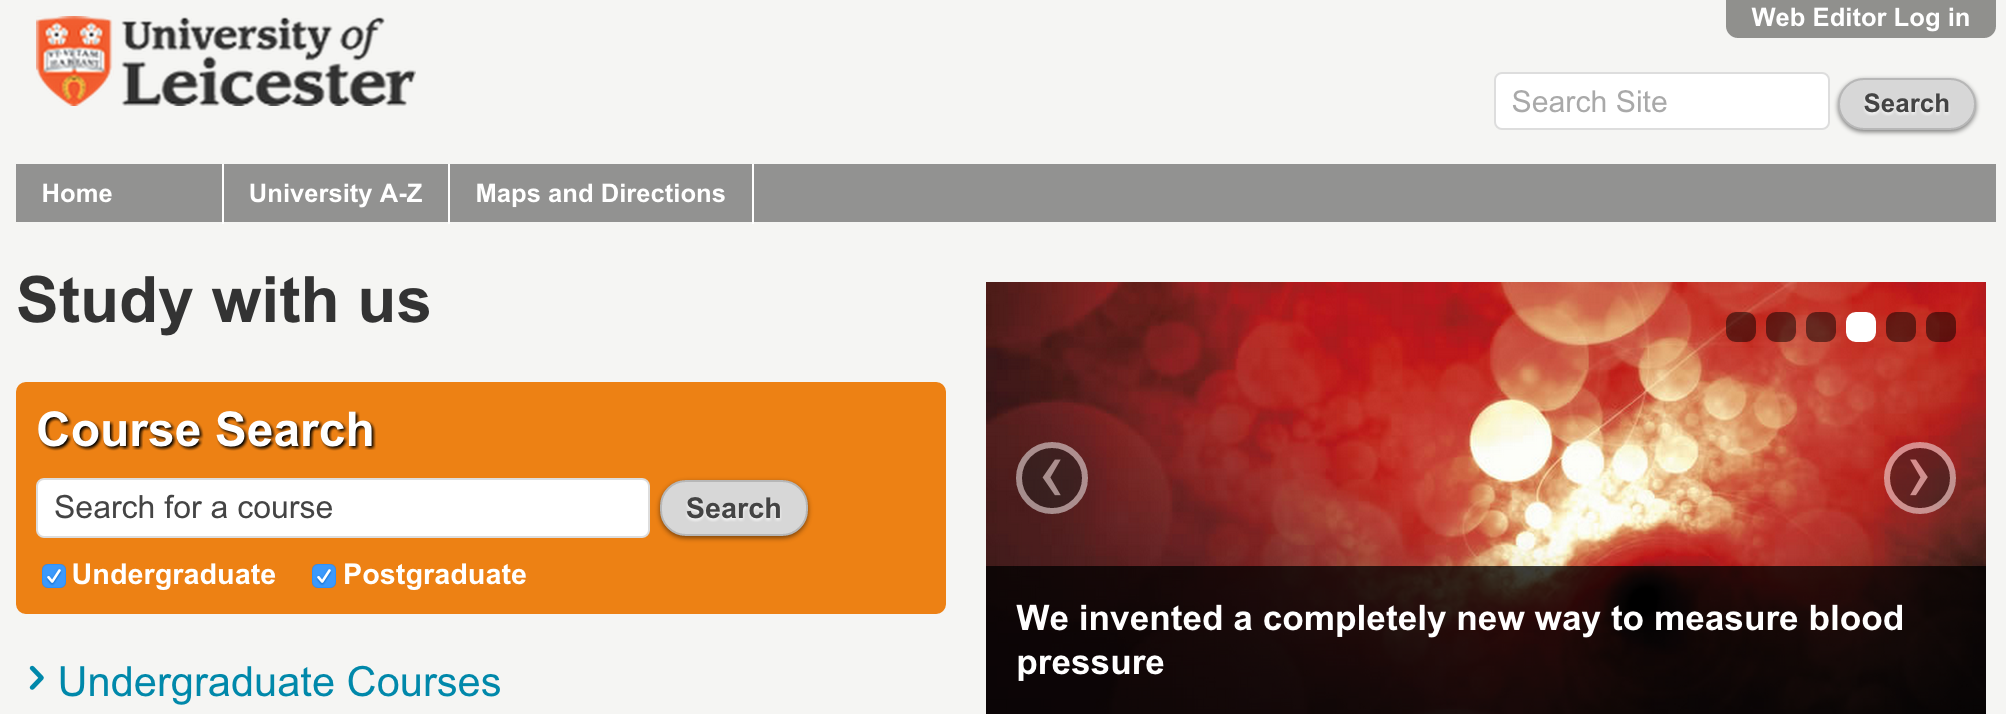
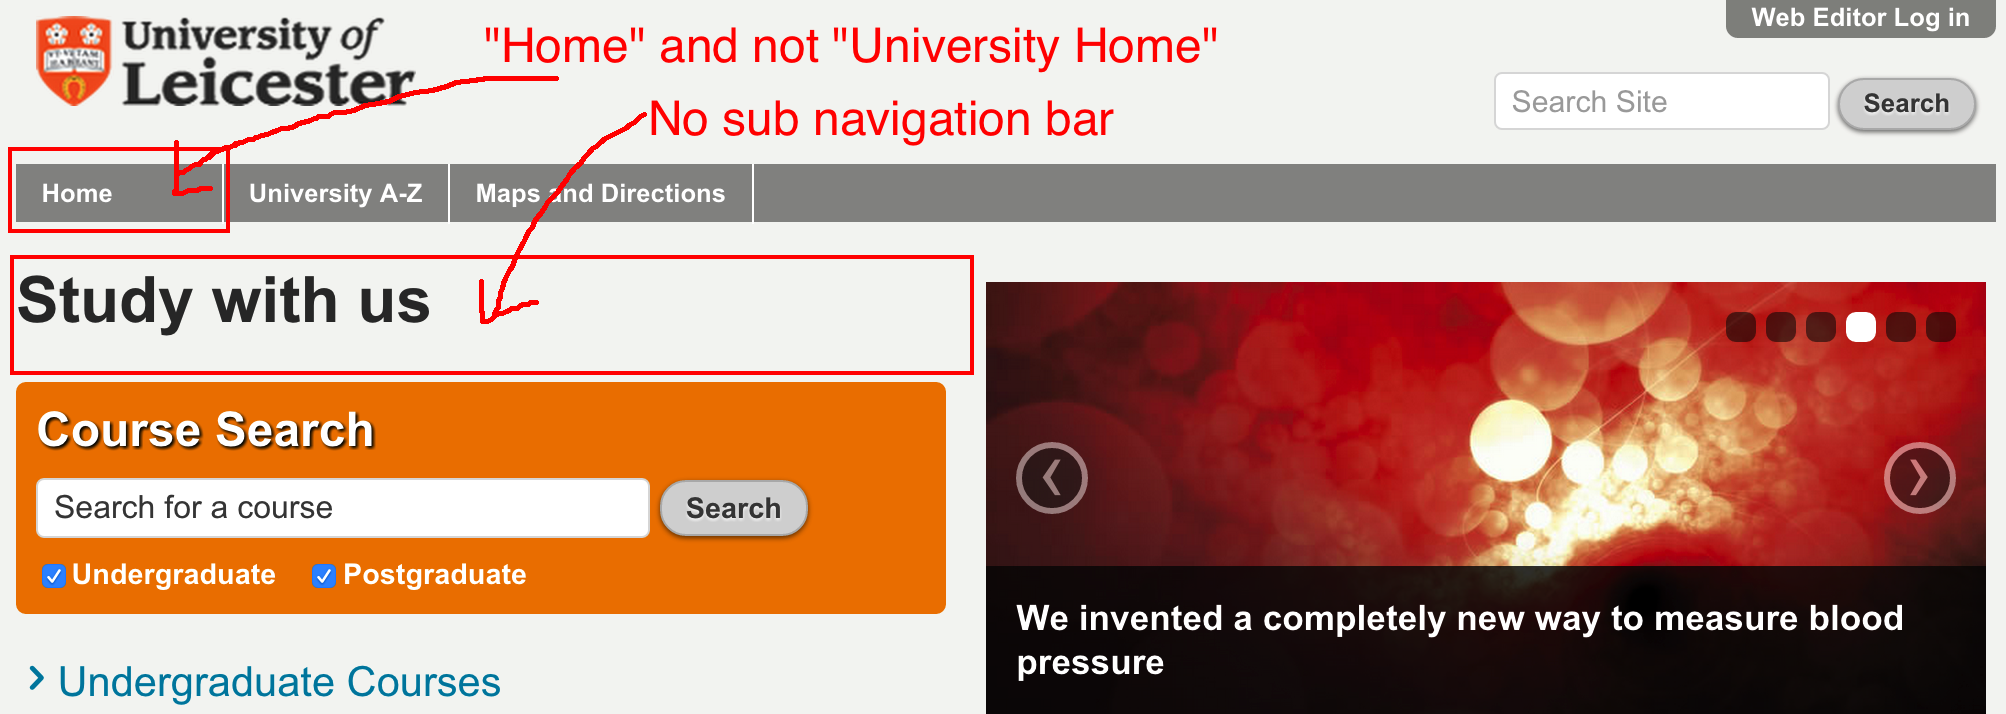
finished visibility page
finished the visibility heuristic page

diff --git a/usabilityeval/visibility.html b/usabilityeval/visibility.html
@@ -30,12 +30,14 @@
 			<div id="main">
 				<h3 id="title">Visibility of system status</h3>
 				<h2 id="description">The system should always keep users informed about what is going on, through appropriate feedback within reasonable time.</h2> 
-				<a href="img/home.png" data-lightbox="home" data-title="Home Page"><img src="img/home.png" alt="home page" /></a>
+				<a href="img/home.png" data-lightbox="home" data-title="Home Page"><img src="img/home.png" alt="home page" />Home Page</a>
 				<p>There is generally a consistent layout once you enter the site after the home page, which seems a little more like a landing page.</p>
 				<p>For the most part, the top navigation bar is consistent, but the subnavigation bar below is either not present or consistent. This is confusing for the user.</p>
 				<a href="img/no-subnav.png" data-lightbox="subnav" data-title="No subnavigation bar shown on page"><img src="img/no-subnav.png" alt="study" class="half-of-page" /></a>
 				<a href="img/subnav.png" data-lightbox="subnav" data-title="Subnavigation bar present on page"><img src="img/subnav.png" alt="study" class="half-of-page" /></a>
-				<p>Also the "Home" button is named differently - sometimes as "Home" and sometimes as "University Home".</p>
+				<p>Also the "Home" button is named differently - sometimes as "Home" and sometimes as "University Home." It seems like the site is divided and what seems like the landing page is the "University Home," while the "Study with us" page which does not have a subnavigation bar is the "Home." This makes it confusing for the user if they are looking for navigation status of the site.</p>
+				<p>When the subnavigation bar is present, it is not always consistent either. For example, there is no subtopic for "Current Students". Instead the subtopic is labeled "Learn at Leicester."</p>
+				<a href="img/currentstudents.png" data-lightbox="currentstudents" data-title="No subtopic for Current students"><img src="img/currentstudents.png" alt="current students" /></a>
 				<br><br>
 			</div>
 		</div>
